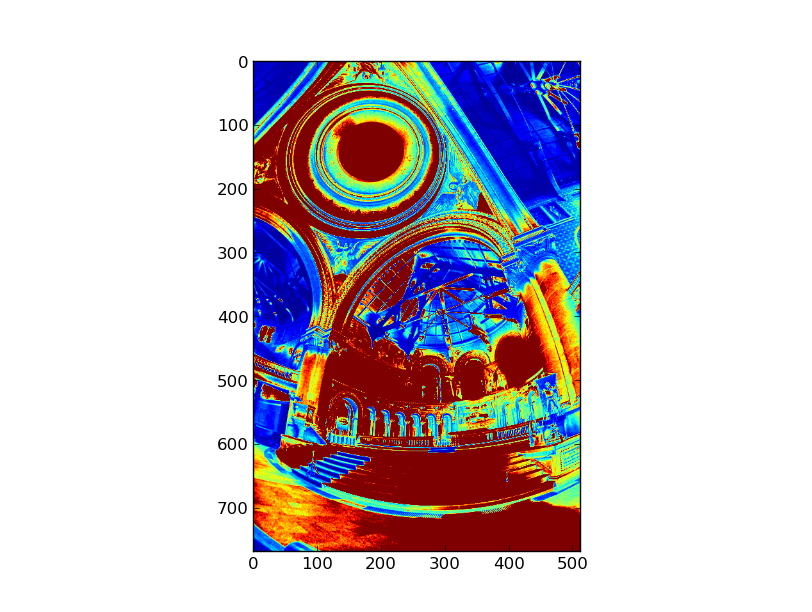
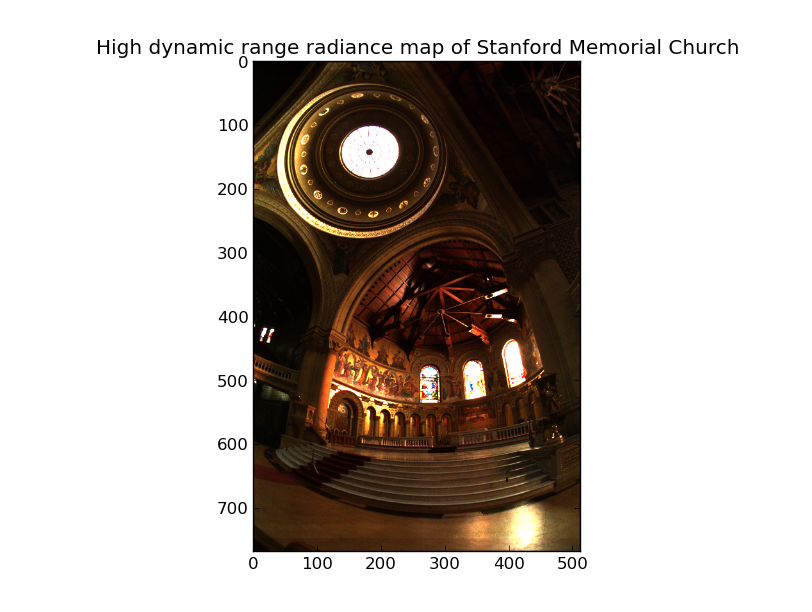
changed scaleHDR output to uint8, added chart labels

diff --git a/imageMatricesToHDR.py b/imageMatricesToHDR.py
@@ -16,22 +16,21 @@ defaultImageWidth = 1000
 
 
 numSamples = 100 #sample numSamples random pixels to calculate response function
-numImagesToUse = 8
+numImagesToUse = 16
 
 #display the HDR map with different options	
 def displayHDR(mapRed,mapGreen,mapBlue):	
-	scaledRed = scaleHDR(mapRed, 1)#10**-3)
-	plt.imshow(scaledRed)
-	plt.figure()
-	scaledGreen = scaleHDR(mapGreen, 1)#10**-3)
-	plt.imshow(scaledGreen)
-	plt.figure()
-	scaledBlue = scaleHDR(mapBlue,1)#10**-3)
-	plt.imshow(scaledBlue)
-	plt.figure()
+	scaledRed = scaleHDR(mapRed, 10**-3)
+	scaledGreen = scaleHDR(mapGreen,10**-3)
+	scaledBlue = scaleHDR(mapBlue,10**-3)
 	combinedMap = np.dstack([scaledRed,scaledGreen,scaledBlue])
 	print "showing image: "
+	plt.imshow(np.log(mapBlue))
+	plt.title('False color radiance map of Stanford Memorial Church')
+	plt.colorbar()
+	plt.figure()
 	plt.imshow(combinedMap)
+	plt.title('High dynamic range radiance map of Stanford Memorial Church')
 	plt.show()
 	
 #scaling as per option (c) in the paper
@@ -46,6 +45,7 @@ def scaleHDR(raw_map, scale):
 	scalingValue = Zmax/scaledMax
 	scaledMap = scalingValue * raw_map
 	scaledMap[scaledMap > Zmax] = Zmax
+	scaledMap=scaledMap.astype(np.uint8)
 	print "min value in scaled map: ", np.min(scaledMap)
 	print "max value in scaled map: ", np.max(scaledMap)
 	return scaledMap
@@ -65,7 +65,7 @@ def smoothness(meanNoiseValue,imageHeight,imageWidth):
 	#could do linear regression or something to get exact parameters, but that would require
 	#mathematically evaluating how good your image is for a given smoothness parameter
 	#so we just estimate it roughly
-	smoothness = 0.1*noiseEstimate
+	smoothness = 0.5*noiseEstimate
 	print("We estimate the noise of these images to be %f.  Setting lamdba to be %f" % (noiseEstimate, smoothness))
 	return smoothness
 	
@@ -78,7 +78,8 @@ if __name__=="__main__":
 	#height is number of rows, width is number of columns
 	sampleRed,sampleGreen,sampleBlue,exposures,weights, imageRed, \
 	imageGreen, imageBlue,numRowsInImage,numColsInImage, meanNoiseValue \
-	= getPixelArrayFromFiles('images','canal.txt',numSamples)
+	= getPixelArrayFromFiles('memorial','memorial.hdr_image_list.txt',numSamples)
+#	= getPixelArrayFromFiles('images','StLouisArch.txt',numSamples)
 	print "got pixel arrays"
 	l = smoothness(meanNoiseValue,numRowsInImage,numColsInImage)
 	
@@ -103,21 +104,21 @@ if __name__=="__main__":
 	
 	print "got last hdr map, displaying based on hdr map of images"
 	#end profiler
-	pr.disable()
-	s = StringIO.StringIO()
-	sortby = "cumtime"
-	ps = pstats.Stats(pr, stream=s).sort_stats(sortby)
-	ps.print_stats()
-	print s.getvalue()
+#	pr.disable()
+#	s = StringIO.StringIO()
+#	sortby = "cumtime"
+#	ps = pstats.Stats(pr, stream=s).sort_stats(sortby)
+#	ps.print_stats()
+#	print s.getvalue()
 	displayHDR(hdrMapRed_images,hdrMapGreen_images, hdrMapBlue_images)
-	print "size of response function for red channel: ", rfRed_sample.size
+#	print "size of response function for red channel: ", rfRed_sample.size
 	
 	#plot the response functions
-	x = np.zeros(rfRed_sample.size)
-	for i in range(0,x.size):
-		x[i] = i
-	plt.plot(x,rfRed_sample, "r-", x,rfGreen_sample, "g-", x,rfBlue_sample, "b-")
-	plt.show()
+#	x = np.zeros(rfRed_sample.size)
+#	for i in range(0,x.size):
+#		x[i] = i
+#	plt.plot(x,rfRed_sample, "r-", x,rfGreen_sample, "g-", x,rfBlue_sample, "b-")
+#	plt.show()
 
 
 

diff --git a/rfsolver.py b/rfsolver.py
@@ -90,9 +90,12 @@ if __name__=='__main__':
 	plt.subplot(121)
 	plt.plot(zt[0].A1,B,'x',zt[1].A1,B,'+',zt[2].A1,B,'o')
 	plt.axis([0,300,-6,6])
+	plt.xlabel('pixel value')
+	plt.ylabel('log exposure')
+	plt.title('Observed pixel values')
 	#plt.show()
 		
-	test_output = rfsolve(zt,B,l,w)
+	test_output = rfsolve(zt,B,l,w,16)
 	g=np.mat(test_output[0]).A1
 	lE=test_output[1]
 	y=np.zeros((3,5))
@@ -110,6 +113,9 @@ if __name__=='__main__':
 	#plt.plot(np.transpose(z).A1,np.mat(np.transpose(y)).A1,'x')
 	plt.plot(zt[0].A1,yt[0],'x',zt[1].A1,yt[1],'+',zt[2].A1,yt[2],'o')
 	plt.axis([0,300,-6,6])
+	plt.title('Response curve')
+	plt.xlabel('pixel value')
+	plt.ylabel('log exposure')
 	#plt.subplot(313)
 	#plt.plot(np.transpose(z).A1,np.mat(np.transpose(yy)).A1,'x')
 	#plt.plot(zt[0].A1,yyt[0],'x',zt[1].A1,yyt[1],'+',zt[2].A1,yyt[2],'o')

diff --git a/readImages.py b/readImages.py
@@ -146,6 +146,7 @@ def getSamplingDomain(imIntensity,numSamples,imSize):
 	if __name__=="__main__":
 		plt.imshow(imIntensity,cmap=cm.Greys_r)
 		plt.plot(x,y,'r.')
+		plt.title('Sample Locations')
 		plt.figure()
 	return pixelSamples
 
@@ -176,4 +177,7 @@ if __name__=="__main__":
 	plotZandG(zGreen,gGreen,'gx')
 	plotZandG(zBlue,gBlue,'bx')
 	plt.axis([-10,5,0,260])
+	plt.xlabel('log exposure X')
+	plt.ylabel('pixel value Z')
+	plt.title('Response curve')
 	plt.show()
